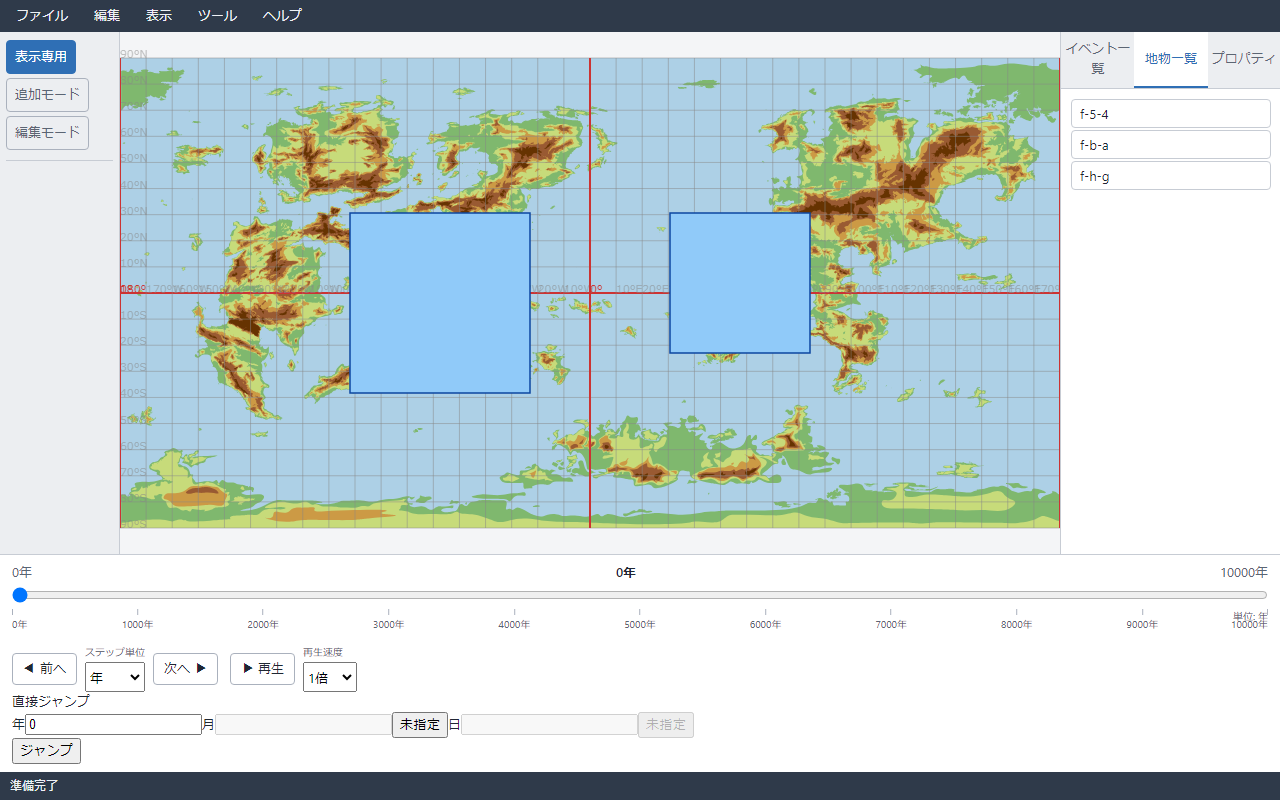
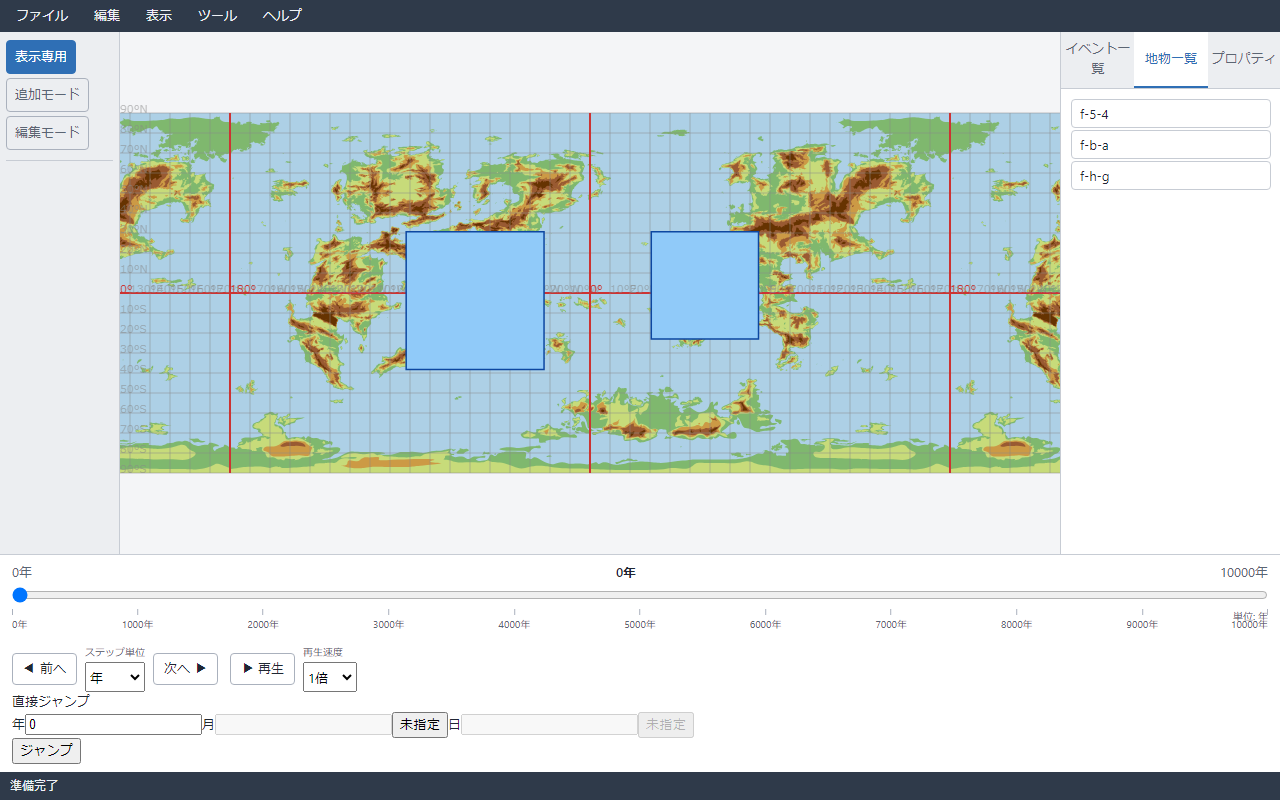
fix(bughunt): ズーム上限/下限の設定変更が現在のカメラ zoom を再クランプしない

Changed region(s): [[0.0938, 0.0625, 0.8438, 0.6875]]

diff --git a/src/ui/add/host-ports-zoomrange.test.tsx b/src/ui/add/host-ports-zoomrange.test.tsx
@@ -1,0 +1,108 @@
+// REGRESSION (bughunt: ズーム上限/下限の設定変更が現在のカメラ zoom を再クランプしない).
+//
+// ROOT CAUSE the fix closes: a zoomMax/zoomMin settings change reached the host's
+// setZoomRange (supplyZoomRange → ports.setZoomRange), but the host only forwarded
+// it to the renderer, which merely stored the new range without re-clamping the LIVE
+// camera. So after zooming to 50× and lowering the max to 10× in settings, the map
+// kept rendering at 50× until the NEXT wheel notch finally clamped it — the settings
+// change did not take effect at once (FR-10 / FR-109 即時反映 違反), and the U16 store
+// zoom truth (mirrored via onCameraChange) stayed at the stale 50×.
+//
+// The fix: the renderer re-clamps its live camera inside setZoomRange, and the host
+// detects that re-clamp (getCamera diff) to RE-PAINT and fire onCameraChange — the
+// SAME single store-mirror path the wheel/pan use. This test drives the REAL
+// createAddHostPorts (with a stubbed 2D context, since jsdom has none) and asserts
+// that lowering the max below the live zoom both repaints AND notifies with the
+// bounded zoom, while an in-range range update stays a silent no-op.
+
+import { afterEach, describe, expect, it, vi } from 'vitest';
+
+import { FakeContext2D } from '../../render/fake-canvas';
+import type { Camera } from '../../render/camera';
+
+import { createAddHostPorts } from './host-ports';
+
+// jsdom provides no real 2D context — stub getContext to a recording FakeContext2D
+// so the renderer constructs, and give the canvas a measured box so the camera is a
+// well-defined fit-all (not the unmeasured 0×0 degenerate camera).
+function stubCanvas(): void {
+  vi.spyOn(HTMLCanvasElement.prototype, 'getContext').mockImplementation(
+    () => new FakeContext2D() as unknown as CanvasRenderingContext2D,
+  );
+  vi.spyOn(HTMLCanvasElement.prototype, 'getBoundingClientRect').mockImplementation(
+    () =>
+      ({
+        x: 0,
+        y: 0,
+        left: 0,
+        top: 0,
+        right: 800,
+        bottom: 600,
+        width: 800,
+        height: 600,
+        toJSON: () => ({}),
+      }) as DOMRect,
+  );
+}
+
+afterEach(() => {
+  vi.restoreAllMocks();
+});
+
+describe('createAddHostPorts.setZoomRange re-clamps + reflects at once (FR-10 / FR-109)', () => {
+  it('repaints and fires onCameraChange with the bounded zoom when the live zoom exceeds the new max', () => {
+    stubCanvas();
+    const mount = document.createElement('div');
+    document.body.appendChild(mount);
+
+    const cameras: Camera[] = [];
+    const ports = createAddHostPorts(mount, {
+      onCameraChange: (c) => cameras.push(c),
+    });
+
+    // Drive the live camera up to 50× through the renderer-backed write path, then
+    // forget the initial-paint / write notifications so we observe only the effect of
+    // the settings change below.
+    const base = ports.readCamera().camera;
+    ports.writeCamera({ ...base, zoom: 50 });
+    expect(ports.readCamera().camera.zoom).toBe(50);
+    cameras.length = 0;
+
+    // Lower the max to 10× (the FR-10 即時反映 contract): the live 50× must drop to 10×
+    // NOW, not on the next wheel notch.
+    ports.setZoomRange({ minZoom: 1, maxZoom: 10 });
+
+    expect(ports.readCamera().camera.zoom).toBe(10);
+    // The store mirror / observation hooks are notified through the single
+    // onCameraChange path with the bounded zoom.
+    expect(cameras).toHaveLength(1);
+    expect(cameras[0]!.zoom).toBe(10);
+
+    ports.dispose();
+    mount.remove();
+  });
+
+  it('does NOT repaint or notify for an in-range range update (no-op)', () => {
+    stubCanvas();
+    const mount = document.createElement('div');
+    document.body.appendChild(mount);
+
+    const cameras: Camera[] = [];
+    const ports = createAddHostPorts(mount, {
+      onCameraChange: (c) => cameras.push(c),
+    });
+
+    const base = ports.readCamera().camera;
+    ports.writeCamera({ ...base, zoom: 8 });
+    cameras.length = 0;
+
+    // 8× is inside [1, 50] → the live camera is untouched, so no spurious notify.
+    ports.setZoomRange({ minZoom: 1, maxZoom: 50 });
+
+    expect(ports.readCamera().camera.zoom).toBe(8);
+    expect(cameras).toHaveLength(0);
+
+    ports.dispose();
+    mount.remove();
+  });
+});

diff --git a/src/render/canvas2d-renderer.test.ts b/src/render/canvas2d-renderer.test.ts
@@ -267,6 +267,65 @@ describe('wheel zoom range honors the fit-all floor (Codex medium #6)', () => {
   });
 });
 
+describe('setZoomRange re-clamps the LIVE camera (FR-10 / FR-109 即時反映 — bughunt regression)', () => {
+  // ROOT CAUSE the fix closes: setZoomRange only stored `this.zoomRange` and never
+  // re-clamped the current camera. So after zooming to 50× then lowering the max to
+  // 10× in settings, the renderer kept drawing at 50× until the NEXT wheel notch
+  // finally clamped it — a settings change that did not take effect at once
+  // (FR-10 / FR-109 即時反映 違反). setZoomRange now re-clamps the live camera zoom
+  // into the new effective range so the very next paint shows the bounded zoom.
+  it('lowers the current zoom to the new max when the live zoom exceeds it', () => {
+    const { r } = makeRenderer({ centerLon: 0, centerLat: 0, zoom: 50 });
+    r.setZoomRange({ minZoom: 1, maxZoom: 10 });
+    expect(r.getCamera().zoom).toBe(10);
+    // The center is untouched — only the zoom is clamped.
+    expect(r.getCamera().centerLon).toBe(0);
+    expect(r.getCamera().centerLat).toBe(0);
+  });
+
+  it('raises the current zoom to the new min when the live zoom is below it', () => {
+    // A large viewport so the fit-all floor (min(w/360,h/180)=2) does NOT swallow the
+    // configured min: with fit (2) < configured min (5) the effective floor is fit,
+    // which would mask the configured min — pick a viewport whose fit floor is below
+    // the configured min so the configured min is the effective floor. Here fit =
+    // min(1800/360, 900/180) = 5, so the effective floor IS the configured min (5).
+    const big: Viewport = { widthCss: 1800, heightCss: 900, devicePixelRatio: 1 };
+    const { r } = makeRenderer({ centerLon: 0, centerLat: 0, zoom: 2 }, big);
+    r.setZoomRange({ minZoom: 5, maxZoom: 50 });
+    // fit = min(1800/360, 900/180) = 5 ≥ configured min (5), so the effective floor IS
+    // the configured min — the live zoom (2) is re-clamped up to it.
+    expect(r.effectiveZoomRange().minZoom).toBe(5);
+    expect(r.getCamera().zoom).toBe(5);
+  });
+
+  it('leaves the camera identity untouched when the live zoom is already in range (no-op)', () => {
+    const cam: Camera = { centerLon: 7, centerLat: -3, zoom: 8 };
+    const { r } = makeRenderer(cam);
+    const before = r.getCamera();
+    r.setZoomRange({ minZoom: 1, maxZoom: 50 });
+    // Stable identity so the host's getCamera() diff stays a no-op (no spurious
+    // repaint / onCameraChange notify for an in-range range update).
+    expect(r.getCamera()).toBe(before);
+    expect(r.getCamera().zoom).toBe(8);
+  });
+
+  it('clamps to the fit-all floor, not the configured min, on a sub-1 fit viewport', () => {
+    // The effective floor is the fit-all zoom when it is below the configured min, so
+    // re-clamping must use effectiveZoomRange() (the SAME range wheel-zoom obeys),
+    // never landing on a zoom the wheel path could not reach.
+    const small: Viewport = { widthCss: 300, heightCss: 100, devicePixelRatio: 1 };
+    const surface = new FakeCanvasSurface();
+    const r = new Canvas2DMapRenderer(surface, {
+      camera: { centerLon: 0, centerLat: 0, zoom: 0.1 },
+      viewport: small,
+    });
+    const floor = r.effectiveZoomRange().minZoom;
+    expect(floor).toBeLessThan(1); // fit-all floor for this small viewport
+    r.setZoomRange({ minZoom: 1, maxZoom: 50 });
+    expect(r.getCamera().zoom).toBe(floor);
+  });
+});
+
 describe('FR-21: shape primitive fills holes透過 via even-odd, single fill', () => {
   it('traces outer + hole into one path and fills evenodd once (hole透過)', () => {
     const { r, surface } = makeRenderer({ centerLon: 0, centerLat: 0, zoom: 10 });

diff --git a/src/render/canvas2d-renderer.ts b/src/render/canvas2d-renderer.ts
@@ -22,7 +22,7 @@
 import { LONGITUDE_PERIOD } from '../domain/geo/seam';
 
 import type { Camera, Viewport, ZoomRange } from './camera';
-import { DEFAULT_ZOOM_RANGE } from './camera';
+import { clampZoom, DEFAULT_ZOOM_RANGE } from './camera';
 import type {
   BaseMapPrimitive,
   DrawPrimitive,
@@ -108,6 +108,19 @@ export class Canvas2DMapRenderer implements MapRenderer {
 
   setZoomRange(range: ZoomRange): void {
     this.zoomRange = range;
+    // FR-10 / FR-109 即時反映: a settings change must take effect on the CURRENT
+    // camera at once, not lazily on the next wheel notch. If the live zoom now sits
+    // OUTSIDE the new clamp (e.g. zoomed to 50× then max lowered to 10), re-clamp the
+    // camera into the effective range here so the very next paint shows the bounded
+    // zoom. We clamp against `effectiveZoomRange()` (the SAME range wheel-zoom obeys,
+    // i.e. with the fit-all floor applied) so the renderer never lands on a zoom the
+    // wheel path could not reach. Only re-assign when the value actually changes so an
+    // in-range range update is a no-op (callers diff `getCamera()` to decide whether to
+    // re-paint / mirror — keeping the camera identity stable avoids a spurious notify).
+    const clamped = clampZoom(this.camera.zoom, this.effectiveZoomRange());
+    if (clamped !== this.camera.zoom) {
+      this.camera = { ...this.camera, zoom: clamped };
+    }
   }
 
   /** Size the backing buffer to physical px (CSS × dpr); store stays CSS-based. */

diff --git a/src/ui/add/host-ports.ts b/src/ui/add/host-ports.ts
@@ -405,7 +405,22 @@ export function createAddHostPorts(
       options.onCameraChange?.(camera);
     },
     setZoomRange(range: ZoomRange): void {
+      // FR-10 / FR-109 即時反映: applying a new clamp may re-clamp the LIVE camera
+      // (e.g. zoomed to 50× then max lowered to 10×). The renderer re-clamps its own
+      // camera inside `setZoomRange`; if that changed the zoom, the screen must update
+      // and U16's store mirror (via onCameraChange) must reflect the bounded zoom at
+      // once — otherwise the old 50× frame lingers until the next wheel notch. We diff
+      // the camera around the call (the renderer keeps identity stable on a no-op
+      // change) so an in-range range update stays a silent no-op (no spurious repaint /
+      // notify), while a real re-clamp repaints and mirrors through the SAME single
+      // onCameraChange path the wheel/pan use (no duplicated store-mirror logic).
+      const before = renderer.getCamera();
       renderer.setZoomRange(range);
+      const after = renderer.getCamera();
+      if (after.zoom !== before.zoom) {
+        paintWith(lastOverlay);
+        options.onCameraChange?.(after);
+      }
     },
     effectiveZoomRange(): ZoomRange {
       return renderer.effectiveZoomRange();
